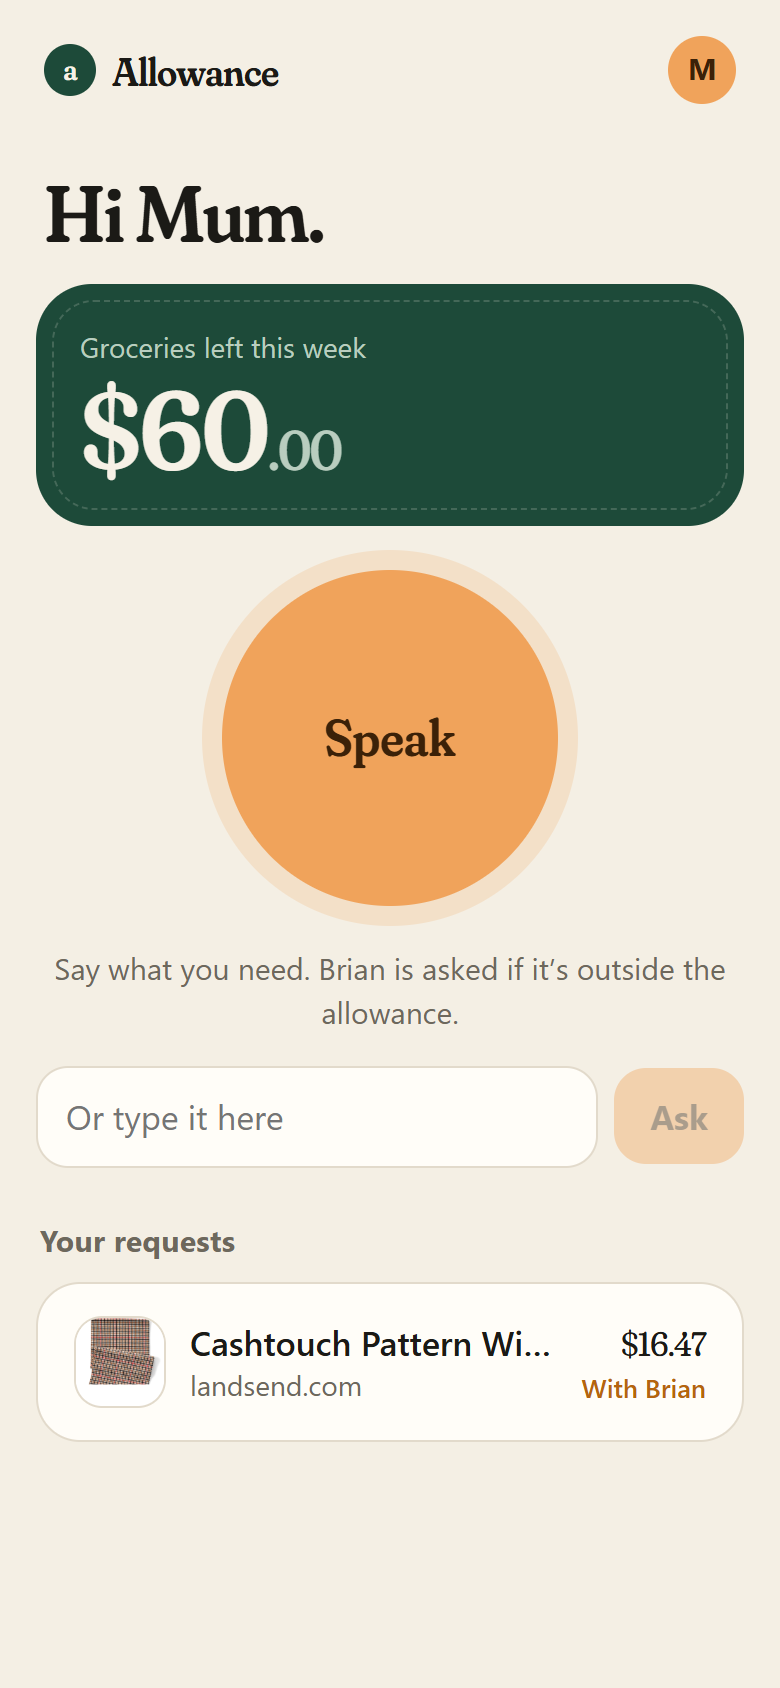
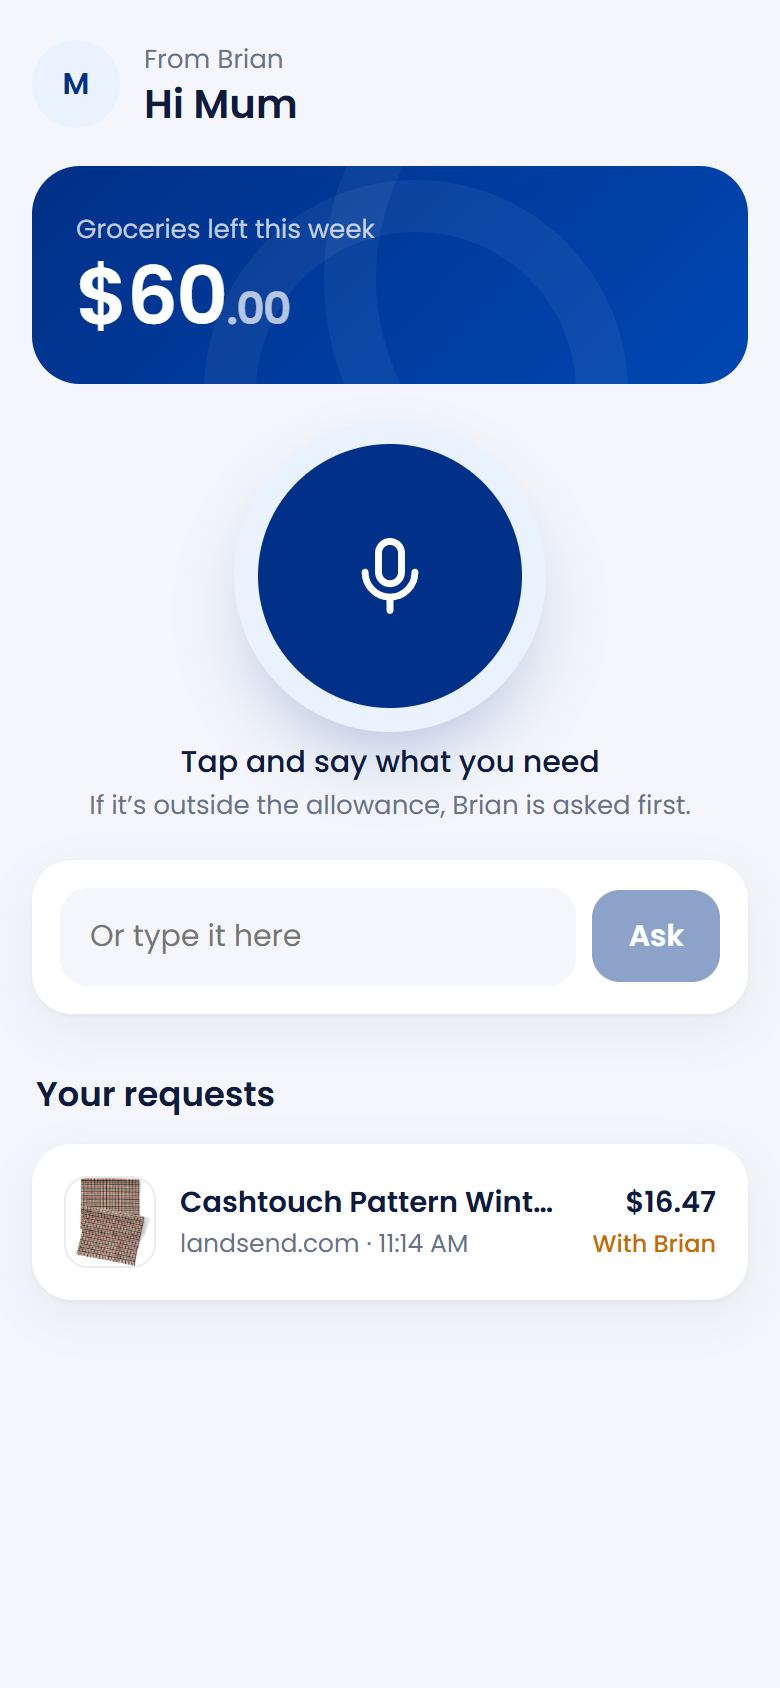
readme: blue screenshots

diff --git a/README.md b/README.md
@@ -3,7 +3,7 @@
 Give your shopping agent an allowance, not your wallet.
 
 <p>
-  <img src="docs/images/payer.png" width="62%" alt="The payer's view: a request from Mum waiting for approval, and what's been spent this month">
+  <img src="docs/images/payer.png" width="62%" alt="The payer's view on a computer: a request from Mum waiting for approval, and the agent's receipt for a purchase it paid with PayPal">
   &nbsp;
   <img src="docs/images/mum.png" width="30%" alt="Mum's view on her phone: what she can spend, and one big Speak button">
 </p>
